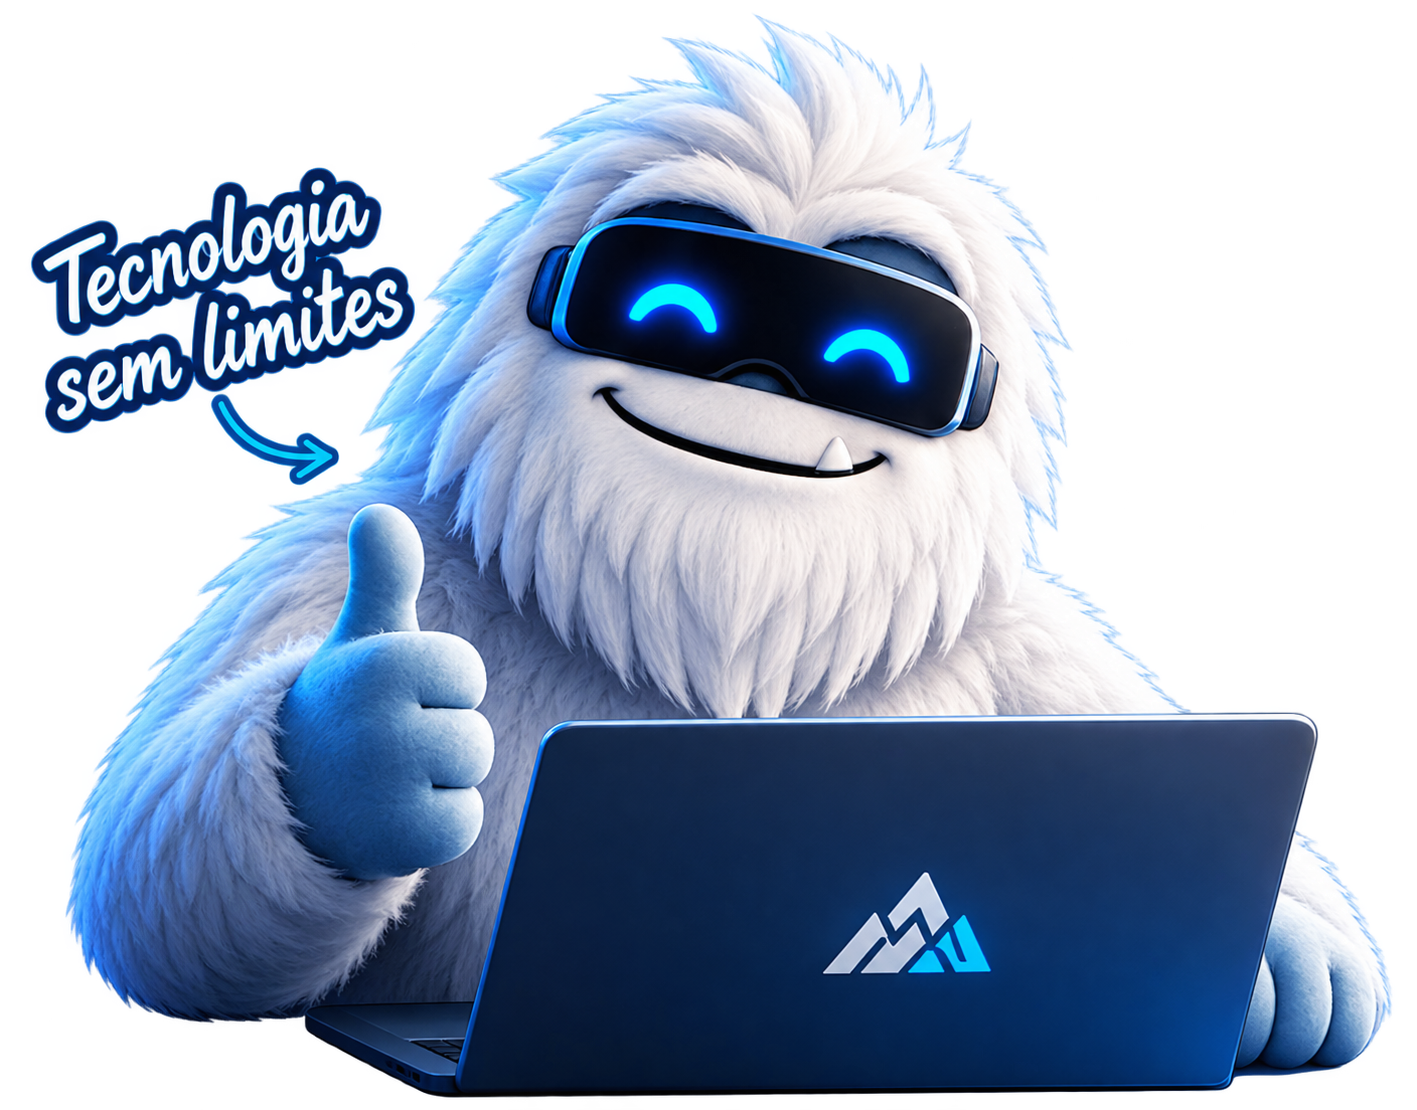
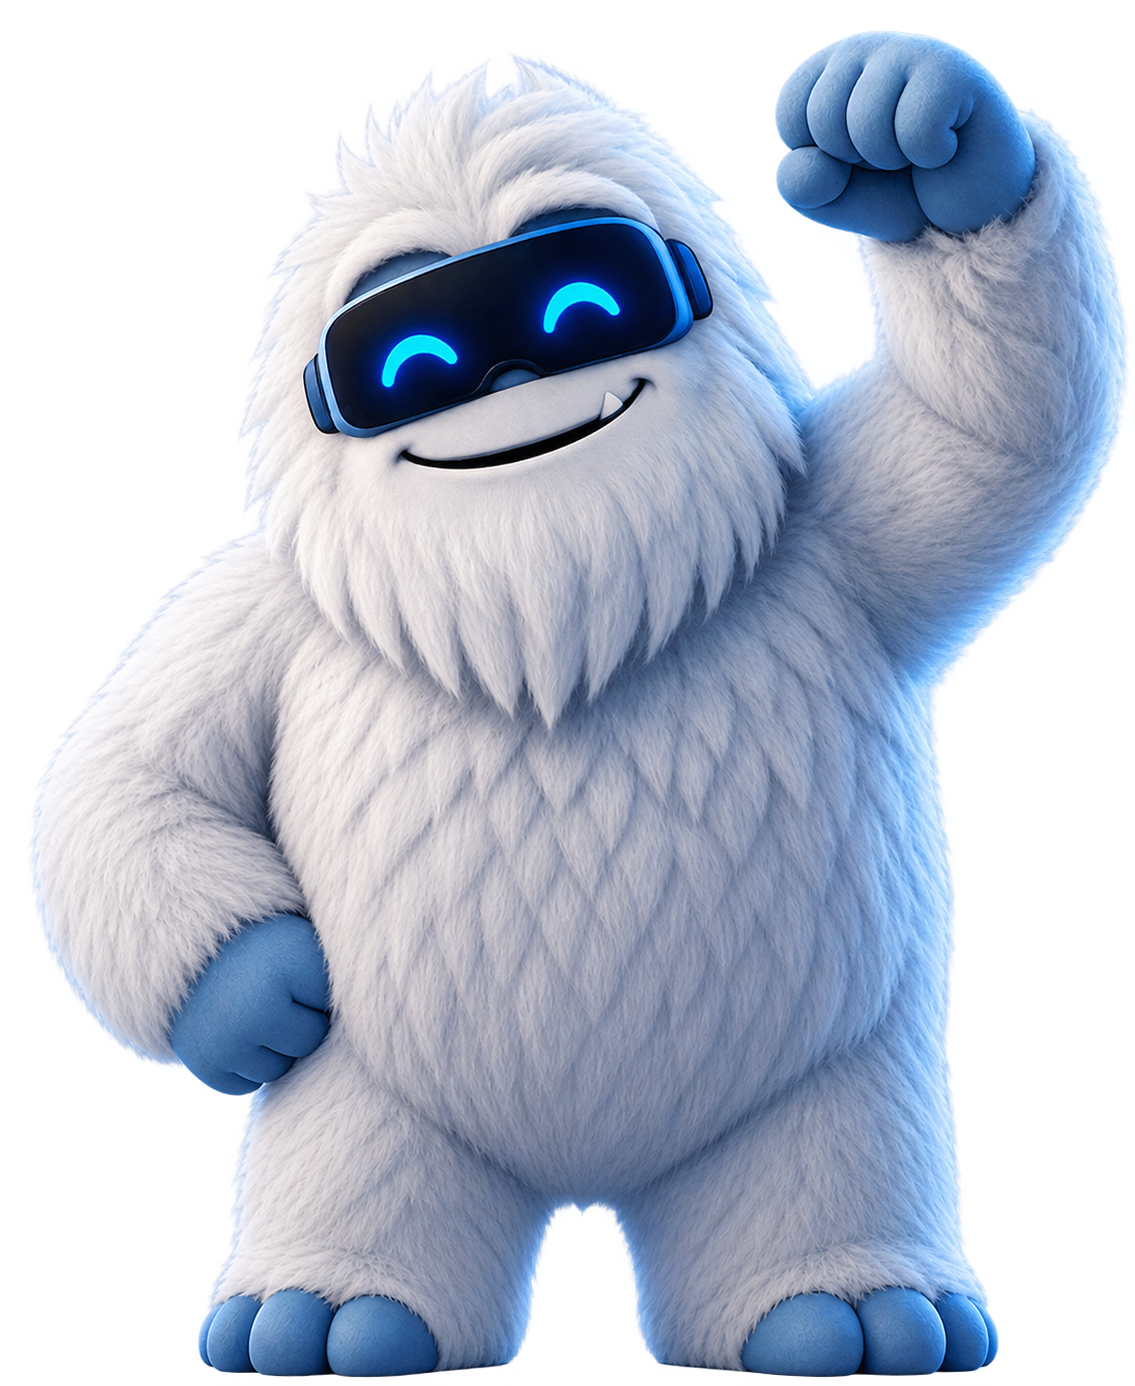
atualização_1.3 add portifolios

diff --git a/portifolios.html b/portifolios.html
@@ -1,0 +1,123 @@
+<!doctype html>
+<html lang="pt-BR">
+  <head>
+    <meta charset="UTF-8" />
+    <meta name="viewport" content="width=device-width, initial-scale=1.0" />
+    <meta
+      name="description"
+      content="Conheça projetos de sites e soluções digitais desenvolvidos pela IwetI."
+    />
+    <title>Portfólios | IwetI</title>
+    <link rel="preconnect" href="https://fonts.googleapis.com" />
+    <link rel="preconnect" href="https://fonts.gstatic.com" crossorigin />
+    <link
+      href="https://fonts.googleapis.com/css2?family=Manrope:wght@400;500;600;700;800&display=swap"
+      rel="stylesheet"
+    />
+    <link rel="stylesheet" href="./css/styles.css" />
+  </head>
+  <body>
+    <header class="site-header site-header-compact">
+      <nav class="shell nav" aria-label="Navegação principal">
+        <a class="brand" href="./index.html" aria-label="IwetI, página inicial">
+          <img class="brand-logo" src="./assets/images/logo.png" alt="IwetI" />
+          <small>TECNOLOGIA SEM LIMITES</small>
+        </a>
+        <button class="menu-toggle" type="button" aria-expanded="false" aria-controls="menu">
+          <span></span>
+          <span></span>
+          <span></span>
+          <span class="sr-only">Abrir menu</span>
+        </button>
+        <div class="nav-links" id="menu">
+          <a href="./index.html#solucoes">Soluções</a>
+          <a href="./portifolios.html" aria-current="page">Portfólio</a>
+          <a href="./index.html#sobre">Quem somos</a>
+          <a href="./index.html#depoimentos">Depoimentos</a>
+          <a href="./index.html#contato">Contato</a>
+          <a class="nav-cta" href="./index.html#contato">Fale com a gente →</a>
+        </div>
+      </nav>
+    </header>
+    <main>
+      <section class="portfolio-page">
+        <div class="shell">
+          <p class="eyebrow reveal">NOSSO PORTFÓLIO</p>
+          <div class="section-heading reveal">
+            <h1>
+              Projetos que
+              <br />
+              falam por nós
+            </h1>
+            <p>Conheça alguns dos projetos que carregam a nossa visão como parceiros digitais.</p>
+          </div>
+          <div class="portfolio-grid">
+            <article class="portfolio-card reveal">
+              <img
+                src="./assets/images/projects.png"
+                alt="Prévia do Projeto 01"
+                loading="lazy"
+              />
+              <div class="portfolio-card-content">
+                <span>Categoria do projeto</span>
+                <h2>Nome do Projeto 01</h2>
+                <p>Breve apresentação sobre o site.</p>
+                <a href="https://exemplo.com/projeto-01" target="_blank" rel="noopener noreferrer">
+                  Acessar site →
+                </a>
+              </div>
+            </article>
+            <article class="portfolio-card reveal">
+              <img
+                src="./assets/images/projects.png"
+                alt="Prévia do Projeto 02"
+                loading="lazy"
+              />
+              <div class="portfolio-card-content">
+                <span>Categoria do projeto</span>
+                <h2>Nome do Projeto 02</h2>
+                <p>Breve apresentação sobre o site.</p>
+                <a href="https://exemplo.com/projeto-02" target="_blank" rel="noopener noreferrer">
+                  Acessar site →
+                </a>
+              </div>
+            </article>
+            <article class="portfolio-card reveal">
+              <img
+                src="./assets/images/projects.png"
+                alt="Prévia do Projeto 03"
+                loading="lazy"
+              />
+              <div class="portfolio-card-content">
+                <span>Categoria do projeto</span>
+                <h2>Nome do Projeto 03</h2>
+                <p>Breve apresentação sobre o site.</p>
+                <a href="https://exemplo.com/projeto-03" target="_blank" rel="noopener noreferrer">
+                  Acessar site →
+                </a>
+              </div>
+            </article>
+          </div>
+        </div>
+      </section>
+    </main>
+    <footer id="contato">
+      <div class="shell footer-cta">
+        <a class="brand" href="./index.html" aria-label="IwetI, página inicial">
+          <img class="brand-logo" src="./assets/images/logo.png" alt="IwetI" />
+          <small>TECNOLOGIA SEM LIMITES</small>
+        </a>
+        <div>
+          <h2>Vamos tirar o seu projeto do papel?</h2>
+          <p>Fale com nosso time e descubra como a IwetI pode ajudar o seu negócio.</p>
+        </div>
+        <a class="btn btn-primary" href="mailto:contato@iweti.com.br">Quero conversar agora →</a>
+      </div>
+      <div class="shell footer-bottom">
+        <span>© 2026 IWETI. Todos os direitos reservados.</span>
+        <span>Tecnologia sem limites.</span>
+      </div>
+    </footer>
+    <script type="module" src="./js/main.js"></script>
+  </body>
+</html>

diff --git a/css/sections.css b/css/sections.css
@@ -7,6 +7,10 @@
     url("../assets/images/hero-background.jpg") center bottom/cover no-repeat;
 }
 
+.site-header-compact {
+  min-height: 0;
+}
+
 .site-header::before {
   content: "";
   position: absolute;
@@ -89,11 +93,14 @@ footer {
 .hero-mascot {
   position: relative;
   z-index: 10;
-  width: min(100%, 760px);
-  max-width: 46rem;
+  width: min(100%, 700px);
+  max-width: 42rem;
   height: auto;
   object-fit: contain;
-  filter: drop-shadow(0 20px 36px rgb(0 0 0 / 65%));
+  filter:
+    drop-shadow(0 0 1.4rem rgb(0 145 255 / 46%))
+    drop-shadow(0 0 3rem rgb(0 108 255 / 24%))
+    drop-shadow(0 20px 36px rgb(0 0 0 / 65%));
 }
 
 .hero-tags {
@@ -208,7 +215,6 @@ footer {
   max-height: none;
   margin-inline: auto;
   object-fit: contain;
-  mix-blend-mode: screen;
   filter:
     drop-shadow(0 0 1.4rem rgb(0 145 255 / 46%))
     drop-shadow(0 0 3rem rgb(0 108 255 / 24%));
@@ -251,6 +257,85 @@ footer {
   background:
     radial-gradient(ellipse at 82% 12%, rgb(0 141 255 / 8%), transparent 26rem),
     var(--color-ink);
+}
+
+.portfolio-page {
+  min-height: calc(100vh - 12rem);
+  padding-block: 5rem;
+  background:
+    radial-gradient(ellipse at 82% 12%, rgb(0 141 255 / 10%), transparent 26rem),
+    var(--color-ink);
+}
+
+.portfolio-page .section-heading {
+  margin-bottom: 2.5rem;
+}
+
+.portfolio-page .section-heading h1 {
+  font-size: 2.25rem;
+  font-weight: 700;
+  line-height: 0.95;
+  letter-spacing: -0.055em;
+}
+
+.portfolio-grid {
+  display: grid;
+  gap: 1.25rem;
+}
+
+.portfolio-card {
+  overflow: hidden;
+  border: 1px solid var(--color-border);
+  border-radius: 0.75rem;
+  background: var(--color-card);
+  transition:
+    border-color 180ms ease,
+    box-shadow 180ms ease,
+    transform 180ms ease;
+}
+
+.portfolio-card:hover {
+  border-color: rgb(0 141 255 / 55%);
+  box-shadow: 0 18px 45px rgb(0 141 255 / 12%);
+  transform: translateY(-4px);
+}
+
+.portfolio-card img {
+  width: 100%;
+  aspect-ratio: 16 / 10;
+  object-fit: cover;
+}
+
+.portfolio-card-content {
+  padding: 1.25rem;
+}
+
+.portfolio-card-content span {
+  color: var(--color-cyan);
+  font-size: 0.65rem;
+  font-weight: 700;
+  letter-spacing: 0.16em;
+  text-transform: uppercase;
+}
+
+.portfolio-card-content h2 {
+  margin-top: 0.6rem;
+  font-size: 1.15rem;
+}
+
+.portfolio-card-content p {
+  margin-top: 0.6rem;
+  color: var(--color-muted);
+  font-size: 0.82rem;
+  line-height: 1.6;
+}
+
+.portfolio-card-content a {
+  display: inline-block;
+  margin-top: 1rem;
+  color: var(--color-cyan);
+  font-size: 0.75rem;
+  font-weight: 700;
 }
 
 .projects {

diff --git a/index.html b/index.html
@@ -28,7 +28,7 @@
         </button>
         <div class="nav-links" id="menu">
           <a href="#solucoes">Soluções</a>
-          <a href="#portfolio">Portfólio</a>
+          <a href="./portifolios.html">Portfólio</a>
           <a href="#sobre">Quem somos</a>
           <a href="#depoimentos">Depoimentos</a>
           <a href="#contato">Contato</a>
@@ -53,15 +53,8 @@
           <img
             class="mascot hero-mascot"
             src="./assets/images/mascot-hero.png"
-            alt="Mascote IwetI trabalhando em um notebook"
+            alt="Mascote IwetI celebrando"
           />
-        </div>
-        <div class="hero-tags">
-          <span>
-            Mais tecnologia para
-            <br />
-            <b>resultados reais</b>
-          </span>
         </div>
       </section>
     </header>
@@ -125,8 +118,8 @@
         <div class="shell about-inner">
           <img
             class="mascot about-mascot"
-            src="./assets/images/mascot-celebrate.png"
-            alt="Mascote IwetI celebrando"
+            src="./assets/images/mascot-about.png"
+            alt="Mascote IwetI trabalhando em um notebook"
             loading="lazy"
           />
           <div class="reveal">
@@ -181,7 +174,7 @@
                 <br />
                 pode estar aqui.
               </h3>
-              <a class="btn btn-primary" href="#contato">Ver portfólio completo →</a>
+              <a class="btn btn-primary" href="./portifolios.html">Ver portfólio completo →</a>
             </article>
           </div>
         </div>

diff --git a/css/responsive.css b/css/responsive.css
@@ -3,6 +3,10 @@
     grid-template-columns: repeat(2, 1fr);
   }
 
+  .portfolio-grid {
+    grid-template-columns: repeat(2, minmax(0, 1fr));
+  }
+
   .about-inner {
     grid-template-columns: 0.8fr 1.45fr 1fr;
   }
@@ -32,6 +36,10 @@
   .service-grid {
     grid-template-columns: repeat(4, 1fr);
   }
+
+  .portfolio-grid {
+    grid-template-columns: repeat(3, minmax(0, 1fr));
+  }
 }
 
 @media (min-width: 768px) and (max-width: 1024px) {
@@ -41,7 +49,7 @@
 
   .hero-mascot {
     right: 0;
-    height: 400px;
+    height: 370px;
   }
 
   .hero-tags {
@@ -109,7 +117,7 @@
     right: 50%;
     bottom: 1.25rem;
     max-width: none;
-    height: 290px;
+    height: 270px;
     transform: translateX(50%);
   }
 
@@ -135,6 +143,7 @@
   }
 
   .section-heading h2,
+  .portfolio-page .section-heading h1,
   .about h2,
   .footer-cta h2 {
     font-size: 1.875rem;

diff --git a/README.md b/README.md
@@ -1,6 +1,6 @@
 # IwetI
 
-Landing page institucional da IwetI, uma empresa de tecnologia focada em transformar ideias em experiências digitais. O projeto reproduz a identidade visual escura, com acentos em azul e ciano, da referência fornecida.
+Site institucional da IwetI, uma empresa de tecnologia focada em transformar ideias em experiências digitais. O projeto reproduz a identidade visual escura, com acentos em azul e ciano, da referência fornecida.
 
 ## Tecnologias
 
@@ -23,7 +23,8 @@ Não há framework JavaScript, bibliotecas de componentes ou backend. O site é 
 │   ├── sections.css     # Aparência das seções da página
 │   └── styles.css       # Ponto de entrada dos estilos
 ├── js/main.js           # Menu mobile e animações de entrada
-└── index.html           # Estrutura e conteúdo da landing page
+├── index.html           # Página inicial
+└── portifolios.html     # Página de portfólios
 ```
 
 ## Seções da página
@@ -34,6 +35,8 @@ Não há framework JavaScript, bibliotecas de componentes ou backend. O site é 
 4. Portfólio de projetos.
 5. Depoimentos.
 6. CTA de contato e rodapé.
+
+A página `portifolios.html` traz cartões-modelo. Substitua as imagens, nomes, categorias, descrições e endereços de exemplo pelos dados dos projetos publicados.
 
 ## Interações e acessibilidade
 
